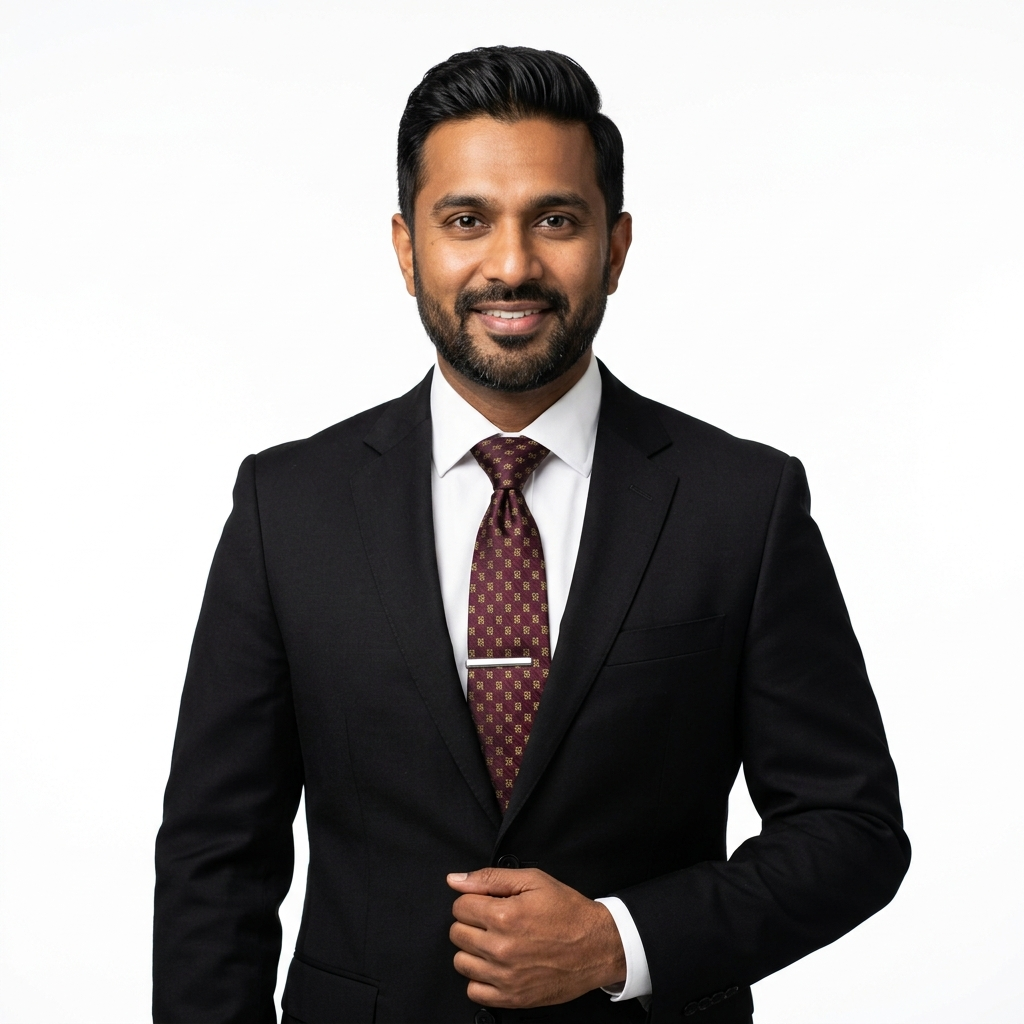
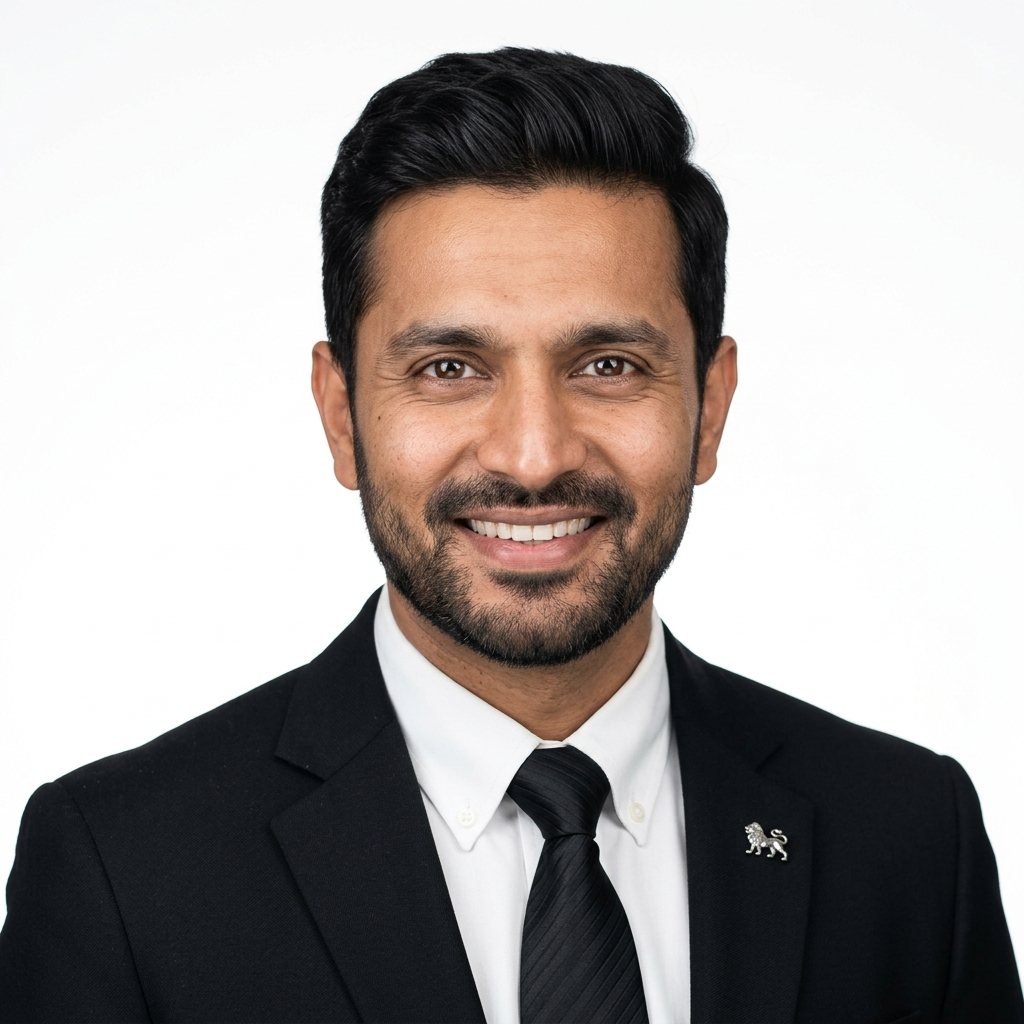
Use tight head and shoulders lawyer portraits and lower vertical alignment across all cards

diff --git a/src/app/App.tsx b/src/app/App.tsx
@@ -12,9 +12,9 @@ import {
 import FigmaBentoGrid from "./components/FigmaBentoGrid";
 import TestDiffCardStack from "./components/TestDiffCardStack";
 import TestDiff1LoadingBar from "./components/TestDiff1LoadingBar";
-import lawyerWorkplace from "../assets/lawyer_white_6.jpg";
-import lawyerRealEstate from "../assets/lawyer_white_7.jpg";
-import lawyerFinance from "../assets/lawyer_white_8.jpg";
+import lawyerWorkplace from "../assets/lawyer_white_2.jpg";
+import lawyerRealEstate from "../assets/lawyer_white_1.jpg";
+import lawyerFinance from "../assets/lawyer_white_4.jpg";
 
 /* ─── palette ─────────────────────────────────────── */
 const C = {
@@ -332,7 +332,8 @@ function SpecCard({ s }: { s: typeof specializations[0] & { video?: string; useC
                   width: "100%",
                   height: "100%",
                   objectFit: "cover",
-                  objectPosition: "center top",
+                  objectPosition: "center 20%",
+                  transform: "translateY(8px) scale(1.05)",
                 }}
               />
             )}

diff --git a/src/app/components/TestDiffCardStack.tsx b/src/app/components/TestDiffCardStack.tsx
@@ -208,7 +208,8 @@ export default function TestDiffCardStack() {
                   width: "100%",
                   height: "100%",
                   objectFit: "cover",
-                  objectPosition: "center top",
+                  objectPosition: "center 18%",
+                  transform: "translateY(6px)",
                   backfaceVisibility: "hidden",
                   WebkitBackfaceVisibility: "hidden",
                 }}